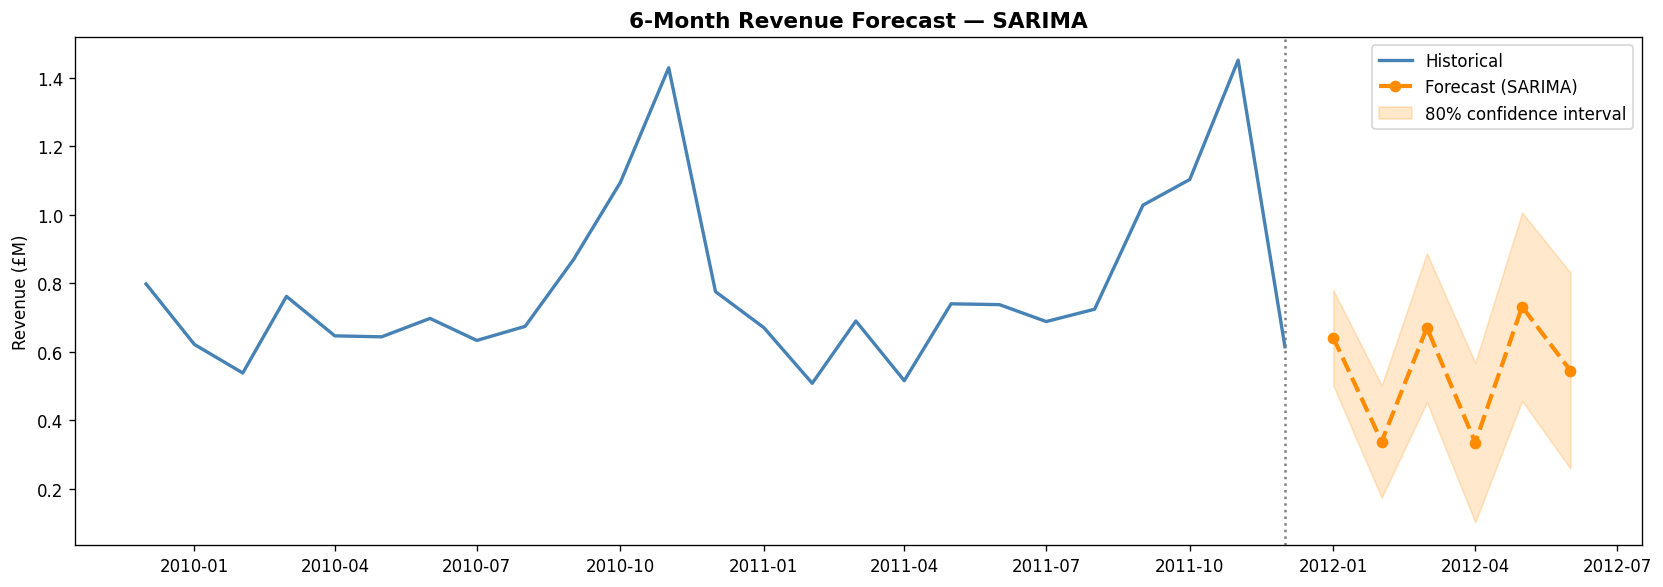
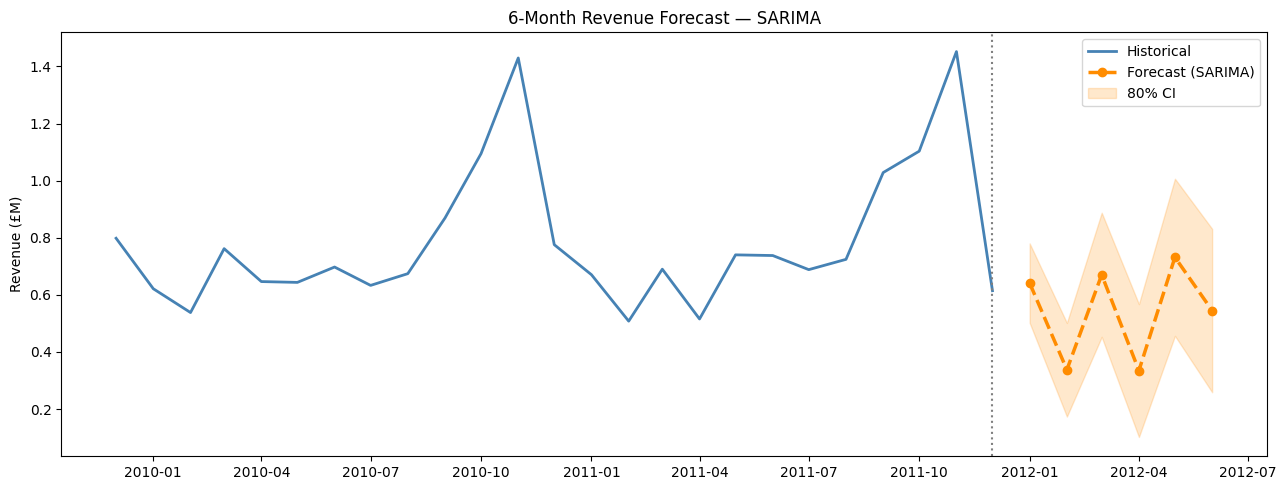
Changes in code

diff --git a/src/forecasting.py b/src/forecasting.py
@@ -4,57 +4,56 @@ forecasting.py
 Standalone script version of notebooks/03_forecasting_models.ipynb.
 Run:  python src/forecasting.py
 """
-
+ 
 import pandas as pd
 import numpy as np
 import matplotlib.pyplot as plt
 import warnings
 import os
 warnings.filterwarnings("ignore")
-
+ 
 from statsmodels.tsa.statespace.sarimax import SARIMAX
 from statsmodels.tsa.holtwinters import ExponentialSmoothing
 from statsmodels.tsa.stattools import adfuller
-
+ 
 try:
-    # pmdarima is optional; static analyzers may not resolve it in some envs
     from pmdarima import auto_arima  # type: ignore
     HAS_PMDARIMA = True
 except ImportError:
     HAS_PMDARIMA = False
-
+ 
 PROCESSED_DIR = "data/processed"
 REPORTS_DIR   = "reports"
 N_FORECAST    = 6    # months ahead to forecast
 TRAIN_RATIO   = 0.80
-
-
+ 
+ 
 # ── Metrics ───────────────────────────────────────────────────
-
+ 
 def mape(actual, predicted):
     a, p = np.array(actual), np.array(predicted)
     mask = a != 0
     return float(np.mean(np.abs((a[mask] - p[mask]) / a[mask])) * 100)
-
+ 
 def mae(actual, predicted):
     return float(np.mean(np.abs(np.array(actual) - np.array(predicted))))
-
+ 
 def rmse(actual, predicted):
     return float(np.sqrt(np.mean((np.array(actual) - np.array(predicted))**2)))
-
-
+ 
+ 
 # ── Stationarity ──────────────────────────────────────────────
-
+ 
 def check_stationarity(series: pd.Series, label: str = "") -> bool:
     result = adfuller(series.dropna())
     stationary = result[1] < 0.05
     print(f"ADF [{label}]: stat={result[0]:.4f}  p={result[1]:.4f}  "
           f"{'→ STATIONARY' if stationary else '→ needs differencing'}")
     return stationary
-
-
+ 
+ 
 # ── SARIMA ────────────────────────────────────────────────────
-
+ 
 def fit_sarima(train: pd.Series) -> tuple:
     if HAS_PMDARIMA:
         print("  Running auto_arima ...")
@@ -73,43 +72,69 @@ def fit_sarima(train: pd.Series) -> tuple:
         p, d, q = 1, 1, 1
         P, D, Q, m = 1, 1, 1, 12
         print(f"  Using default SARIMA({p},{d},{q})({P},{D},{Q},{m})")
-
+ 
     model = SARIMAX(train, order=(p, d, q), seasonal_order=(P, D, Q, m),
                     enforce_stationarity=False, enforce_invertibility=False)
     fit   = model.fit(disp=False)
     return fit, (p, d, q, P, D, Q, m)
-
-
+ 
+ 
 # ── Exponential Smoothing ─────────────────────────────────────
-
+ 
 def fit_ets(train: pd.Series) -> tuple:
-    best_seasonal, best_fit, best_mape_val, best_pred = None, None, np.inf, None
-
-    for seasonal in ["add", "mul"]:
+    best_fit, best_seasonal = None, None
+ 
+    # Try seasonal models first — need at least 2 full cycles (24 months)
+    if len(train) >= 24:
+        for seasonal in ["add", "mul"]:
+            try:
+                model = ExponentialSmoothing(
+                    train, trend="add", seasonal=seasonal,
+                    seasonal_periods=12, initialization_method="estimated"
+                )
+                fit = model.fit(optimized=True, use_brute=True)
+                best_fit      = fit
+                best_seasonal = seasonal
+                print(f"  ETS ({seasonal}) fitted successfully")
+                break
+            except Exception as e:
+                print(f"  ETS ({seasonal}) failed: {e}")
+    else:
+        print(f"  Only {len(train)} months of training data — skipping seasonal ETS (needs 24+)")
+ 
+    # Fallback — trend-only model, works with any data size
+    if best_fit is None:
+        print("  Falling back to trend-only Exponential Smoothing")
         try:
             model = ExponentialSmoothing(
-                train, trend="add", seasonal=seasonal,
-                seasonal_periods=12, initialization_method="estimated"
+                train, trend="add", seasonal=None,
+                initialization_method="estimated"
             )
-            fit  = model.fit(optimized=True, use_brute=True)
-            pred = fit.forecast(1)   # dummy; real eval done in main
-            best_fit      = fit
-            best_seasonal = seasonal
-            break
+            best_fit      = model.fit(optimized=True)
+            best_seasonal = "none (trend only)"
+            print("  Trend-only ETS fitted successfully")
         except Exception as e:
-            print(f"  ETS ({seasonal}) failed: {e}")
-
+            print(f"  Trend-only ETS also failed: {e}")
+            # Last resort — simple exponential smoothing, no trend, no seasonal
+            try:
+                model = ExponentialSmoothing(train, trend=None, seasonal=None)
+                best_fit      = model.fit(optimized=True)
+                best_seasonal = "simple"
+                print("  Simple ETS fitted as last resort")
+            except Exception as e2:
+                print(f"  All ETS models failed: {e2}")
+ 
     return best_fit, best_seasonal
-
-
+ 
+ 
 # ── Forecast export ───────────────────────────────────────────
-
+ 
 def save_results(
     test, sarima_pred, ets_pred, forecast, lower, upper,
     best_model_name, model_summary, out_dir
 ):
     os.makedirs(out_dir, exist_ok=True)
-
+ 
     # Model evaluation
     eval_df = pd.DataFrame({
         "YearMonth"   : test.index.strftime("%Y-%m"),
@@ -120,7 +145,7 @@ def save_results(
         "ETS_APE"     : np.abs(test.values - ets_pred.values)    / test.values * 100,
     })
     eval_df.to_csv(f"{out_dir}/model_evaluation.csv", index=False)
-
+ 
     # Forecast
     forecast_df = pd.DataFrame({
         "YearMonth"      : forecast.index.strftime("%Y-%m"),
@@ -130,16 +155,16 @@ def save_results(
         "ModelUsed"      : best_model_name,
     })
     forecast_df.to_csv(f"{out_dir}/revenue_forecast.csv", index=False)
-
+ 
     # Summary
     pd.DataFrame(model_summary).to_csv(f"{out_dir}/model_summary.csv", index=False)
-
+ 
     print(f"\nSaved to {out_dir}/:")
     print("  model_evaluation.csv")
     print("  revenue_forecast.csv")
     print("  model_summary.csv")
-
-
+ 
+ 
 def plot_comparison(train, test, sarima_pred, ets_pred, mape_s, mape_e, out_dir):
     os.makedirs(out_dir, exist_ok=True)
     fig, ax = plt.subplots(figsize=(13, 5))
@@ -157,8 +182,8 @@ def plot_comparison(train, test, sarima_pred, ets_pred, mape_s, mape_e, out_dir)
     plt.savefig(f"{out_dir}/model_comparison.png", bbox_inches="tight")
     plt.close()
     print(f"  → {out_dir}/model_comparison.png")
-
-
+ 
+ 
 def plot_forecast(full_ts, forecast, lower, upper, best_model_name, out_dir):
     fig, ax = plt.subplots(figsize=(13, 5))
     ax.plot(full_ts.index, full_ts / 1e6, label="Historical", color="steelblue", lw=2)
@@ -175,31 +200,31 @@ def plot_forecast(full_ts, forecast, lower, upper, best_model_name, out_dir):
     plt.savefig(f"{out_dir}/forecast_6months.png", bbox_inches="tight")
     plt.close()
     print(f"  → {out_dir}/forecast_6months.png")
-
-
+ 
+ 
 # ── Main ──────────────────────────────────────────────────────
-
+ 
 def main():
     print("=== FORECASTING PIPELINE ===\n")
-
+ 
     monthly = pd.read_csv(f"{PROCESSED_DIR}/monthly_sales.csv")
     monthly["InvoiceDate"] = pd.to_datetime(monthly["YearMonth"])
     monthly = monthly.sort_values("InvoiceDate").reset_index(drop=True)
     print(f"Loaded {len(monthly)} monthly periods")
-
+ 
     ts = monthly.set_index("InvoiceDate")["TotalRevenue"]
-
+ 
     # Stationarity
     print("\n[Stationarity]")
     check_stationarity(ts, "original")
     check_stationarity(ts.diff().dropna(), "1st diff")
-
+ 
     # Split
     split = int(len(monthly) * TRAIN_RATIO)
     train = monthly.iloc[:split].set_index("InvoiceDate")["TotalRevenue"]
     test  = monthly.iloc[split:].set_index("InvoiceDate")["TotalRevenue"]
     print(f"\nTrain: {len(train)} periods  |  Test: {len(test)} periods")
-
+ 
     # SARIMA
     print("\n[SARIMA]")
     sarima_fit, sarima_order = fit_sarima(train)
@@ -207,24 +232,31 @@ def main():
     sarima_pred.index = test.index
     mape_s = mape(test.values, sarima_pred.values)
     print(f"  MAPE: {mape_s:.2f}%  (Accuracy: {100-mape_s:.1f}%)")
-
+ 
     # ETS
     print("\n[Exponential Smoothing]")
     ets_fit, best_seasonal = fit_ets(train)
-    ets_pred = ets_fit.forecast(len(test))
-    ets_pred.index = test.index
-    mape_e = mape(test.values, ets_pred.values)
-    print(f"  Best seasonal: {best_seasonal}")
-    print(f"  MAPE: {mape_e:.2f}%  (Accuracy: {100-mape_e:.1f}%)")
-
+ 
+    if ets_fit is None:
+        print("  WARNING: All ETS models failed — using SARIMA predictions as ETS fallback")
+        ets_pred = sarima_pred.copy()
+        best_seasonal = "fallback to SARIMA"
+        mape_e = mape_s
+    else:
+        ets_pred = ets_fit.forecast(len(test))
+        ets_pred.index = test.index
+        mape_e = mape(test.values, ets_pred.values)
+        print(f"  Best seasonal: {best_seasonal}")
+        print(f"  MAPE: {mape_e:.2f}%  (Accuracy: {100-mape_e:.1f}%)")
+ 
     # Winner
-    best_model_name = "SARIMA" if mape_s < mape_e else f"Holt-Winters ({best_seasonal})"
+    best_model_name = "SARIMA" if mape_s <= mape_e else f"Holt-Winters ({best_seasonal})"
     print(f"\n✓ Best model: {best_model_name}")
-
+ 
     # Refit on full series → forecast
     p, d, q, P, D, Q, m = sarima_order
     full_ts = monthly.set_index("InvoiceDate")["TotalRevenue"]
-
+ 
     if best_model_name == "SARIMA":
         final = SARIMAX(full_ts, order=(p,d,q), seasonal_order=(P,D,Q,m),
                         enforce_stationarity=False, enforce_invertibility=False).fit(disp=False)
@@ -232,40 +264,45 @@ def main():
         ci       = final.get_forecast(N_FORECAST).conf_int(alpha=0.2)
         lower, upper = ci.iloc[:,0], ci.iloc[:,1]
     else:
-        final    = ExponentialSmoothing(full_ts, trend="add", seasonal=best_seasonal,
-                                        seasonal_periods=12, initialization_method="estimated").fit(optimized=True)
+        seasonal_type = best_seasonal if best_seasonal not in ["none (trend only)", "simple", "fallback to SARIMA"] else None
+        if seasonal_type:
+            final = ExponentialSmoothing(full_ts, trend="add", seasonal=seasonal_type,
+                                         seasonal_periods=12, initialization_method="estimated").fit(optimized=True)
+        else:
+            final = ExponentialSmoothing(full_ts, trend="add", seasonal=None,
+                                         initialization_method="estimated").fit(optimized=True)
         forecast = final.forecast(N_FORECAST)
         std      = np.std(final.resid)
         lower    = forecast - 1.28 * std
         upper    = forecast + 1.28 * std
-
+ 
     forecast_idx   = pd.date_range(
         start=full_ts.index[-1] + pd.offsets.MonthBegin(1),
         periods=N_FORECAST, freq="MS"
     )
     forecast.index = lower.index = upper.index = forecast_idx
-
+ 
     print(f"\n6-Month Forecast:")
     for dt, v, lo, hi in zip(forecast_idx, forecast, lower, upper):
         print(f"  {dt.strftime('%Y-%m')}: £{v:>10,.0f}  (£{lo:,.0f} – £{hi:,.0f})")
-
+ 
     # Plots
     print("\n[Plots]")
     plot_comparison(train, test, sarima_pred, ets_pred, mape_s, mape_e, REPORTS_DIR)
     plot_forecast(full_ts, forecast, lower, upper, best_model_name, REPORTS_DIR)
-
+ 
     # Save
     model_summary = [
-        {"Model": "SARIMA",                    "MAPE": round(mape_s, 2), "Accuracy": round(100-mape_s, 1),
+        {"Model": "SARIMA",                         "MAPE": round(mape_s, 2), "Accuracy": round(100-mape_s, 1),
          "MAE": round(mae(test.values, sarima_pred.values), 0), "RMSE": round(rmse(test.values, sarima_pred.values), 0)},
         {"Model": f"Holt-Winters ({best_seasonal})", "MAPE": round(mape_e, 2), "Accuracy": round(100-mape_e, 1),
          "MAE": round(mae(test.values, ets_pred.values), 0),    "RMSE": round(rmse(test.values, ets_pred.values), 0)},
     ]
     save_results(test, sarima_pred, ets_pred, forecast, lower, upper,
                  best_model_name, model_summary, PROCESSED_DIR)
-
+ 
     print("\n✓ Done. Load CSVs from data/processed/ into Power BI.")
-
-
+ 
+ 
 if __name__ == "__main__":
     main()